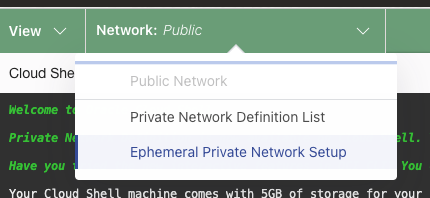
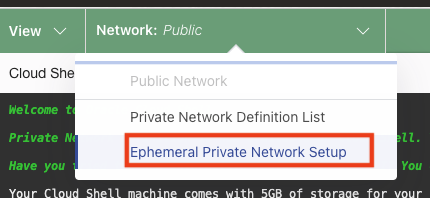
added instructions

Changed region(s): [[0.2721, 0.6667, 0.8767, 0.8485]]

diff --git a/readme.md b/readme.md
@@ -40,10 +40,11 @@ This lab covers the fundamentals of DevOps and cloud-native application developm
 ![image](img/4.%20view_stack_oke.png)
 11. Click "Apply" to provision the cluster.
 ![image](img/5.%20apply_stack_job_oke.png)
-12. It'll take about 10mins - 15mins to complete the provisioning. While waiting, go to [Section (b)](redme.md#).
+12. It'll take about 10mins - 15mins to complete the provisioning. While waiting, go to [Section (b)](#b-create-devops-project).
 13. [**Optional**] Meanwhile, to inspect the Terraform configuration, go back to Stack Details, press "Edit" and select "Edit Terraform configuration in code editor". 
 14. [**Optional**] When Code Editor session is created, on the left pane, click on the Oracle logo and you should see the list of supported OCI Plugins. 
 15. [**Optional**] Expand "RESOURCE MANAGER" list and continue to expand it (ocbcredsg -> Compartments -> ocbc_participants -> <your_user_compartment> -> Stacks -> <stack_name> -> main.tf ). This TF script includes provisioning of all the resources required for a functional Kubernetes cluster such as VCN, route table, security list, subnets, master nodes and worker nodes.
+![image](img/6.%20view_terraform_script.png)
 
 ### **(b) Create DevOps Project**
 
@@ -62,29 +63,38 @@ This lab covers the fundamentals of DevOps and cloud-native application developm
 11. When it's completed, go back to DevOps project and click on the project to verify the project.
 12. On the main project page, click on "Enable log" on the Enable Logging message and enable log.
 13. Keep the default configurations and press "Enable Log".
-12. Now the DevOps project is created, go to Section (c) to inspect the OKE cluster.
+12. Now the DevOps project is created, go to [Section (c)](#c-secure-access-to-a-private-oke-cluster) to inspect the OKE cluster.
 
 ### **(c) Secure Access to a private OKE Cluster**
 
 1. When the Apply job is completed for OKE cluster, on the search bar, type "OKE" and click on "Kubernetes Clusters (OKE)"under Services and you should see the OKE cluster.
 2. Click on the OKE cluster
 3. On the Cluster details page, click on the subnet "oke-k8sApiEndpoint-subnet-quick*" under "Kubernetes API endpoint subnet".
+![image](img/7.%20oke_subnet.png)
 4. Click on the security list under "Security Lists".
+![image](img/8.%20oke_security_list.png)
 5. Click on "Egress Rules" and press "Add Egress Rules".
 6. Insert the following configurations
     - Destination CIDR: `10.0.0.0/28`
     - Description: `for cloud shell access`
 7. Click on "Add Egress Rules".
 8. Go back to OKE Cluster details page, click on "Access Cluster".
+![image](img/9.%20oke_mainpage.png)
 9. Copy the content of (2) and press "close"
+![image](img/9.1.%20access_cluster.png)
 10. On the top right corner, press on the logo of Developer Tools and select "Cloud Shell".
+![image](img/10.%20developer_tools.png)
 11. When the cloud shell session is created, expand the cloud shell by pressing "Maximize" on the top right corner of cloud shell.
 12. Paste the content of step 9 on the shell and press enter. A kubeconfig file will be created.
 13. Notice the Network is set as "Public" but the OKE cluster is a private cluster so we need to access the cluster through the private network. 
 14. Expand the network setting and select "Ephemeral Private Network Setup". 
+![image](img/11.%20ephemeral_network.png)
+
 15. Insert the following configurations
     - VCN: `oke-vcn-quick-*`
     - Subnet: `oke-k8sApiEndpoint-subnet-quick*`
+
+![image](img/12.%20ephemeral_network_setup.png)
 16. Click on "Use as active network". The cloud shell network will be connecting to the ephemeral private network.
 17. When the ephemeral network is connected, type `kubectl get nodes` and you should see the worker nodes under this cluster.
 18. Now the cluster is ready, we're ready to deploy our applications to the cluster.
@@ -94,6 +104,9 @@ This lab covers the fundamentals of DevOps and cloud-native application developm
 1. On the search bar, type "devops" and click on "Projects" under Services.
 2. Click on the devops project.
 3. On the left pane, click on "Environments" and "Create environment"
+
+![image](img/13.%20DevOps%20Left%20pane_env.png)
+
 4. Insert the following configurations
     - Environment type: `Oracle Kubernetes Engine`
     - Name: `<allocated_user>-cluster`, Eg. user100-cluster
@@ -105,6 +118,9 @@ This lab covers the fundamentals of DevOps and cloud-native application developm
     - Subnet: `oke-k8sApiEndpoint-subnet-quick*`
 6. Press "Create environment"
 7. Go back to devops project page and click on "Artifacts" and "Add artifact"
+
+![image](img/13.%20DevOps%20Left%20pane_artifact.png)
+
 8. Insert the following configurations
     - Name: `Nginx K8s Manifest`
     - Type: `Kubernetes manifest`
@@ -118,12 +134,14 @@ This lab covers the fundamentals of DevOps and cloud-native application developm
 11. Insert the following configuration and press "Create pipeline"
     - Name: `nginx-deployment-pipeline`
 12. On the pipeline configuration page, press "Add Stage", select "Apply manifest to your Kubernetes cluster" and press "next".
+![image](img/14.%20pipeline%20setup.png)
 13. Insert the following configurations
     - Stage name: `Nginx deployment`
-    - Environment: Choose the environment created in step (d).4
+    - Environment: Choose the environment created in step 4
     - Artifact: Click "Select artifact", tick the box on the `Nginx K8s Manifest` artifact and press "Save changes"
 14. Press "Add".
 15. On the pipeline configuration page, press "Parameters" on the pipeline top menu pane.
+![image](img/15.%20pipeline%20parameters.png)
 16. Insert the following configurations
     - Name: `VERSION`
     - Default value: `0.1.0`
@@ -132,10 +150,18 @@ This lab covers the fundamentals of DevOps and cloud-native application developm
 18. Go back to the pipeline configuration page by pressing "Pipeline" on the pipeline top menu pane.
 19. Click on "Run pipeline" on the top right corner, and press "Start manual run" to run the deployment.
 20. The deployment should be executed successfully. Now let's access the application.
+![image](img/17.%20run%20pipeline%20completed.png)
 
 ### **(e) Access the application**
 
-1. Return to Cloud Shell. Refer to step (c).10.
+1. Return to Cloud Shell. Refer to [step (c).10](#c-secure-access-to-a-private-oke-cluster).
 2. Run `kubectl get svc -n nginx-webapp` and note down the "EXTERNAL-IP".
 3. Go to your favourite browser and run "http://<EXTERNAL-IP>:5000" 
 4. You should see a simple Nginx Webpage.
+![image](img/18.%20app%20result.png)
+
+### **Challenge yourself!**
+#
+Increase the number of OKE worker nodes from 1 to 2 using Resource Manager. 
+
+***Hint***: You can modify the number of nodes from the Terraform script and apply the change. Code Editor provides the ability to change the Terraform script directly. Refer to [section a](#a-provision-a-container-engine-for-kubernetes-oke-cluster-via-resource-manager) step 13 to 15 for more details.
